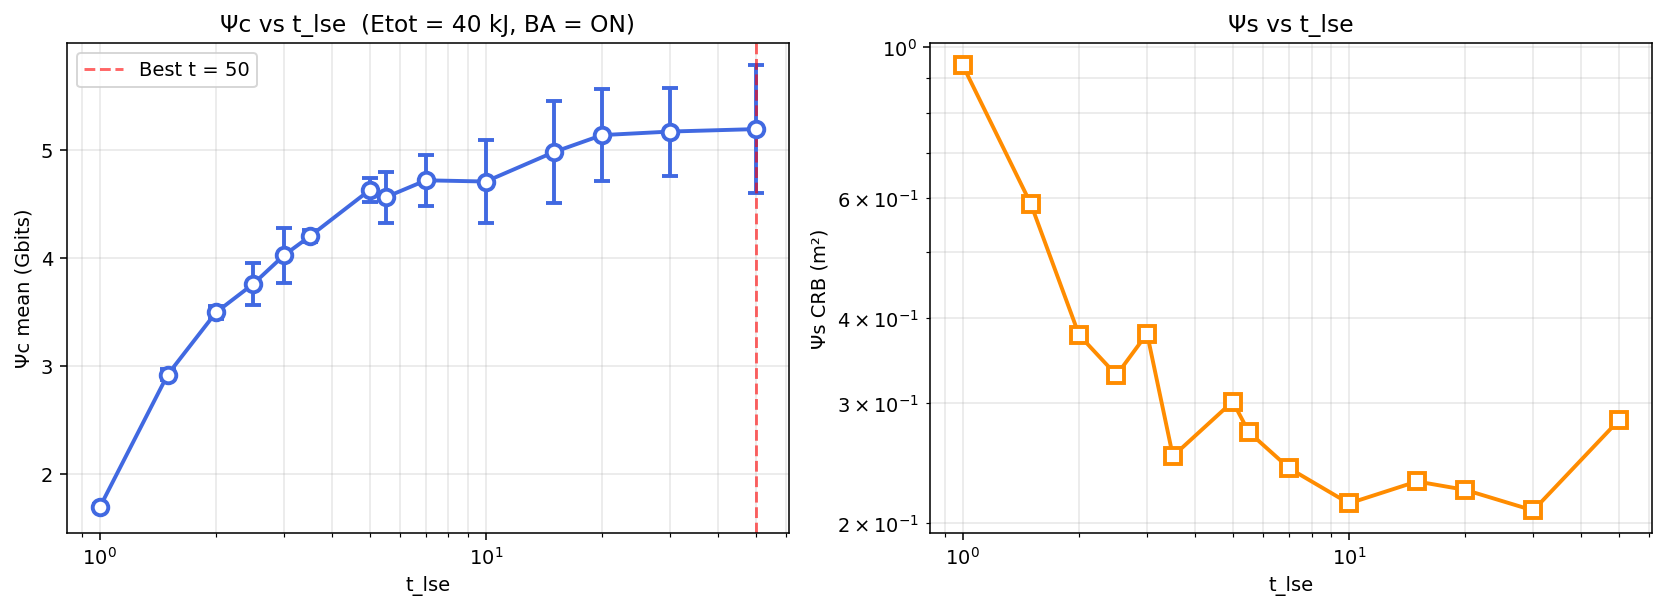
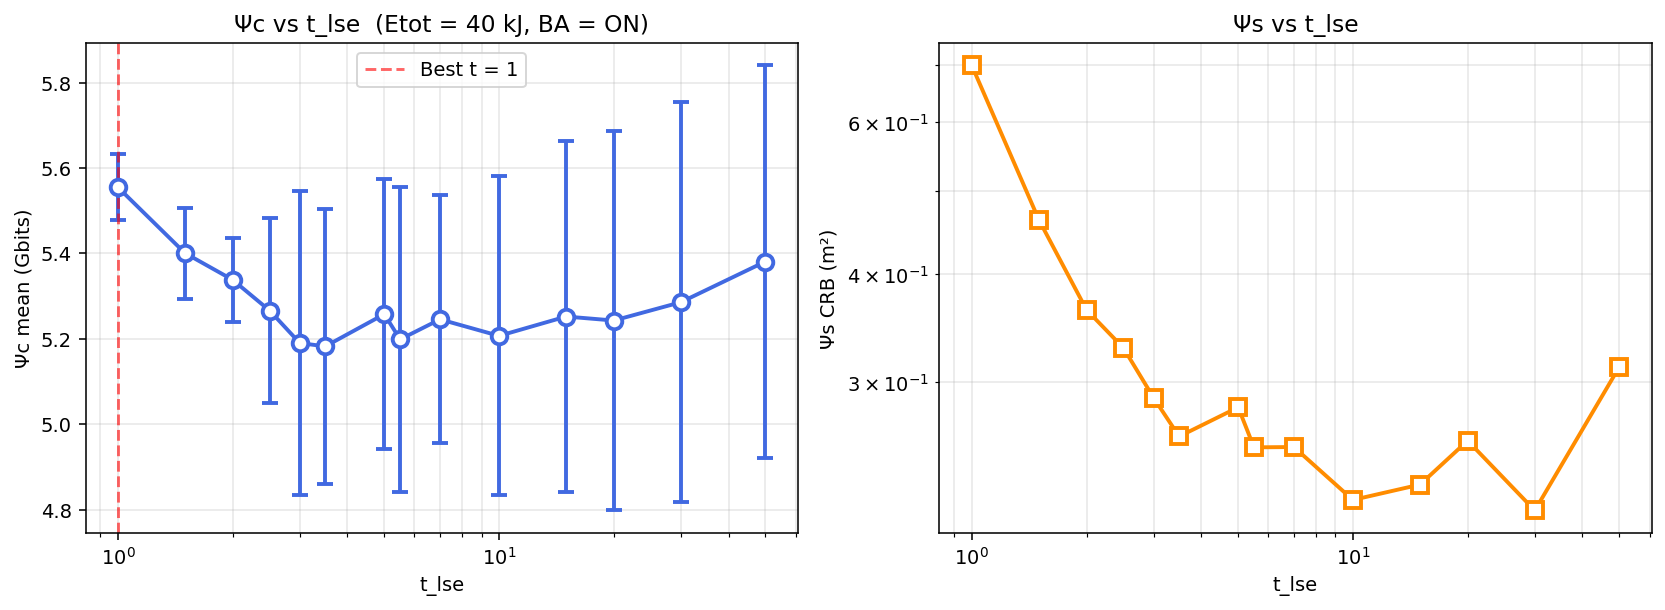
m

diff --git a/model_reconstructed/t_lse_tunning.py b/model_reconstructed/t_lse_tunning.py
@@ -29,7 +29,7 @@ def parse_args():
     p.add_argument("--eta",  type=float, default=0.5)
     p.add_argument("--t_list", type=float, nargs="+",
                    default=[1, 1.5, 2, 2.5, 3, 3.5, 5, 5.5, 7, 10, 15, 20, 30, 50])
-    p.add_argument("--n_trials", type=int, default=10)
+    p.add_argument("--n_trials", type=int, default=100)
     p.add_argument("--max_stages", type=int, default=8)
     p.add_argument("--max_iter",   type=int, default=20)
     p.add_argument("--seed", type=int, default=0)
@@ -102,7 +102,7 @@ def main():
     results = {t: [] for t in args.t_list}
     done    = 0
     t_start = time.time()
-    n_workers = 5
+    n_workers = 20
     with ProcessPoolExecutor(max_workers=n_workers,
                              initializer=_worker_init) as ex:
         futures = {ex.submit(run_one, job): job for job in jobs}
